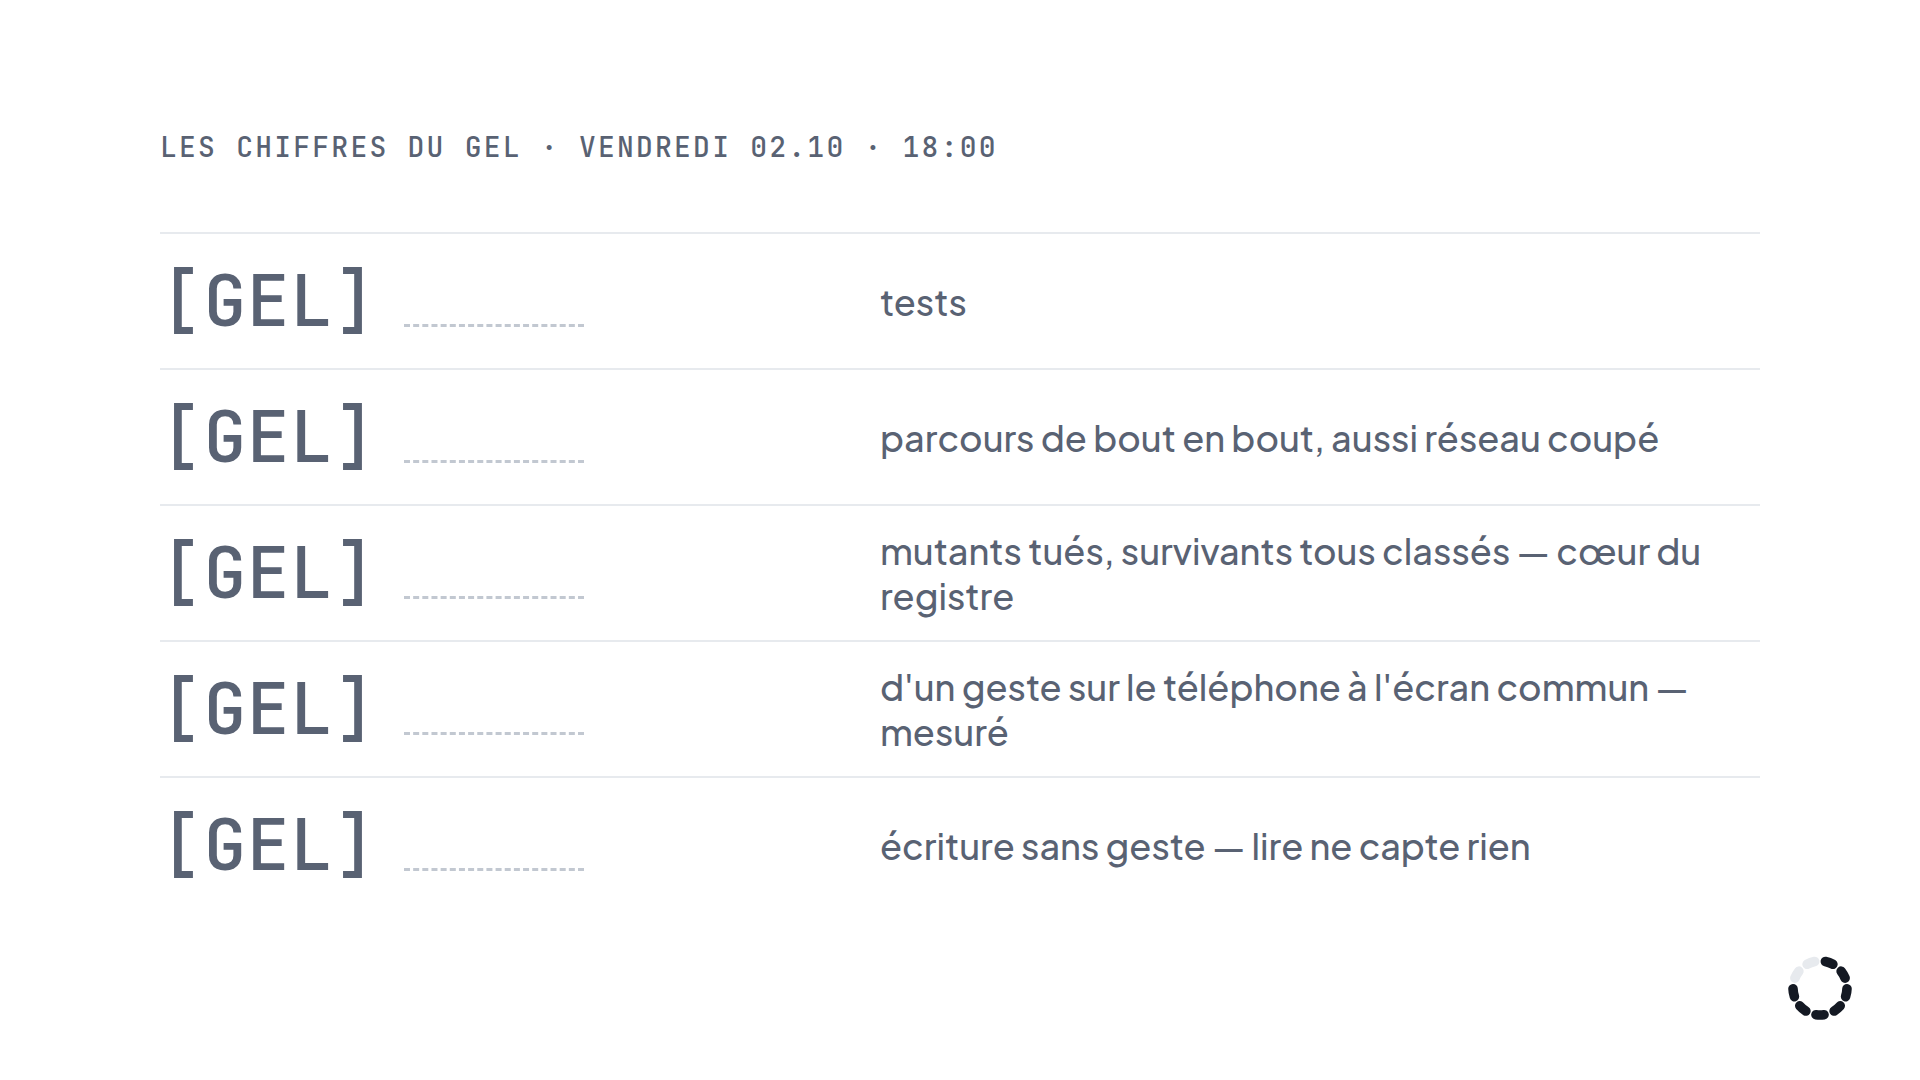
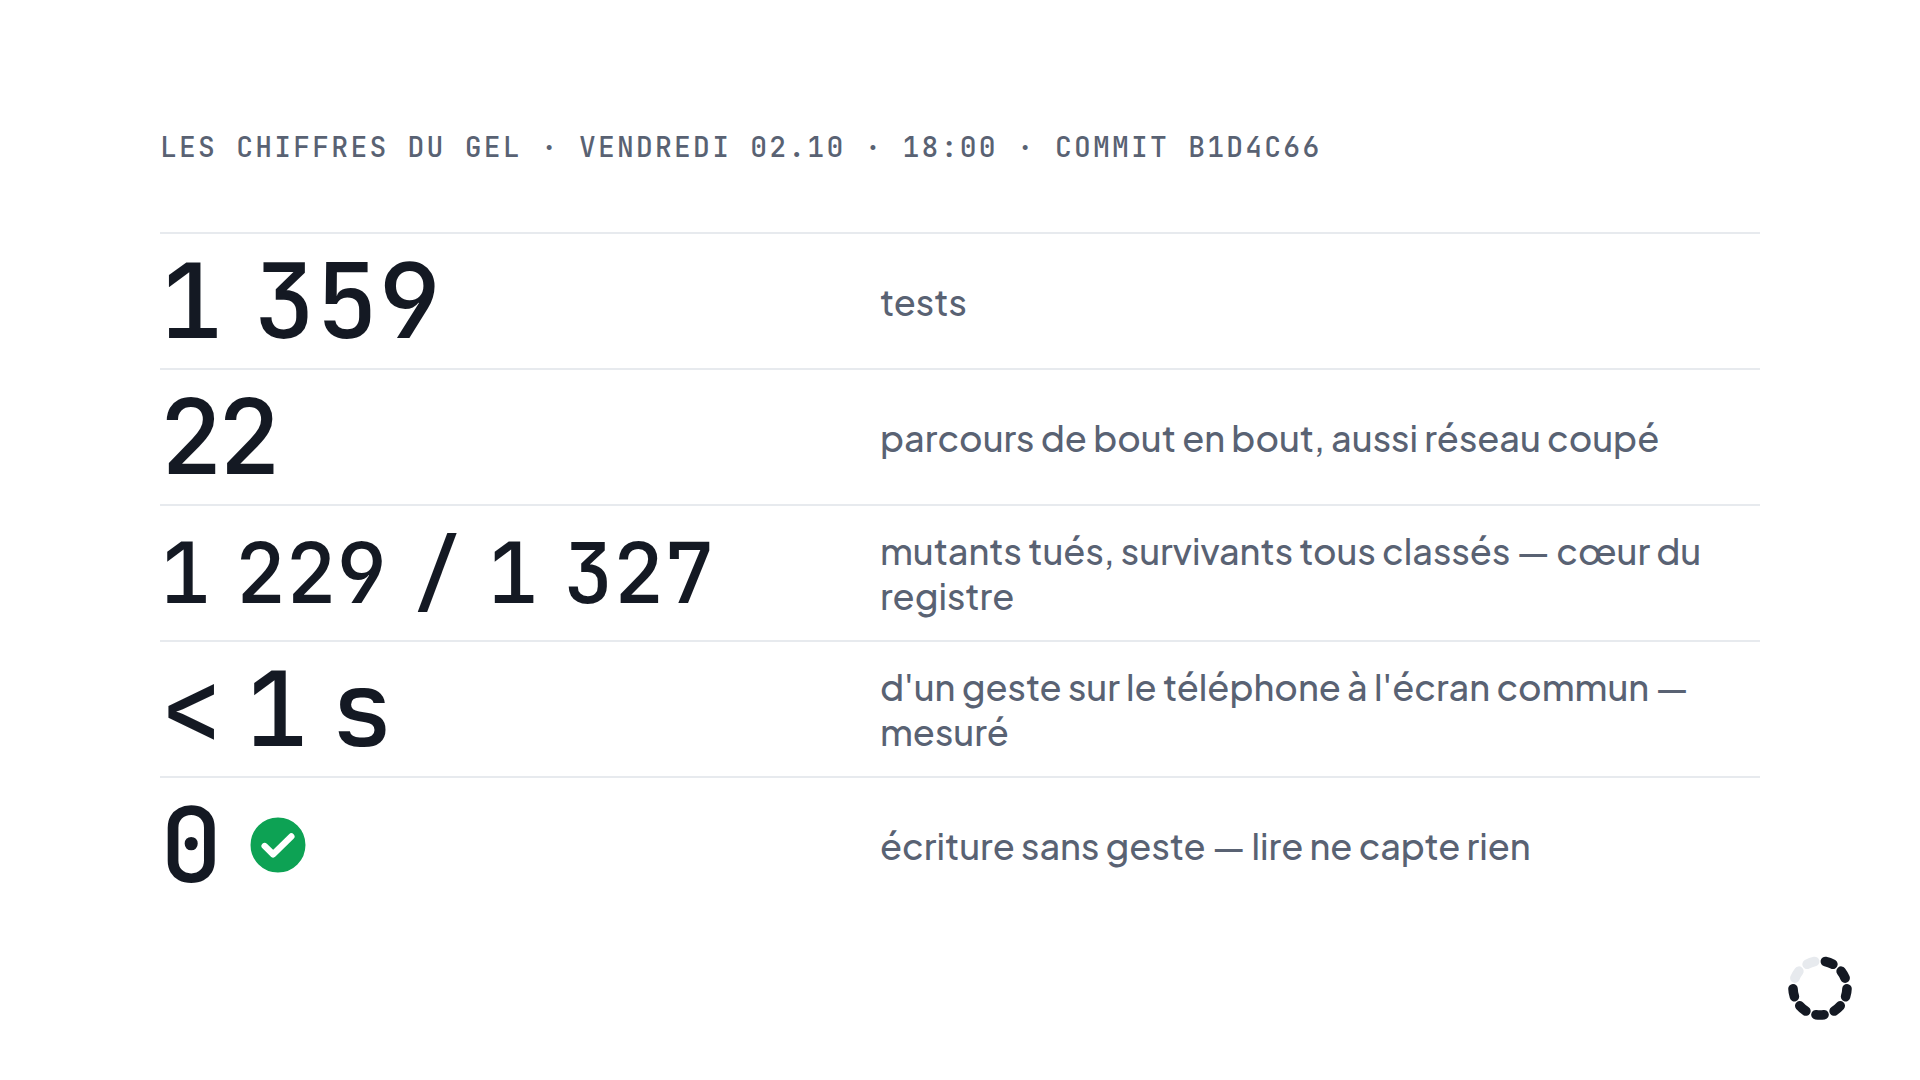
docs(deck): chiffres du gel dans gel.json (depuis PREUVES) ; valeurs longues sur une ligne
gel.json : 1 359 · 22 · 1 229 / 1 327 · < 1 s · 0, commit b1d4c66 — recopiés de
PREUVES, section « Gel du 02.10.2026, 18:00 ». La revue a montré « 1 229 / 1 327 »
coupé sur deux lignes et chevauchant la ligne suivante : espaces fines insécables,
pas de retour à la ligne, corps réduit au-delà de 7 caractères. Revue jour/nuit
refaite.

Claude-Session: https://claude.ai/code/session_01XCgNWgXX2UnAWHyYpxA41M

diff --git a/docs/presentation/deck/index.html b/docs/presentation/deck/index.html
@@ -127,7 +127,7 @@ body { font-family: "Plus Jakarta Sans", sans-serif; color: var(--ink); -webkit-
 .preuve p { font-size: 40px; font-weight: 500; color: var(--secondary); margin-top: 12px; }
 .chiffres { position: absolute; left: var(--marge); right: var(--marge); top: 232px; }
 .chiffre { display: grid; grid-template-columns: 720px 1fr; align-items: center; height: 136px; border-top: 2px solid var(--hairline-2); }
-.chiffre b { font-family: "JetBrains Mono", monospace; font-weight: 500; font-size: 104px; letter-spacing: -0.04em; line-height: 1; display: flex; align-items: center; gap: 28px; }
+.chiffre b { font-family: "JetBrains Mono", monospace; font-weight: 500; font-size: 104px; letter-spacing: -0.04em; line-height: 1; display: flex; align-items: center; gap: 28px; white-space: nowrap; }
 .chiffre b.gel { color: var(--secondary); font-size: 72px; letter-spacing: 0; }
 .chiffre b.gel::after { content: ""; display: block; width: 180px; border-bottom: 3px dashed var(--disabled); align-self: flex-end; margin-bottom: 10px; }
 .chiffre span { font-size: 36px; font-weight: 500; color: var(--secondary); line-height: 1.25; }
@@ -429,7 +429,9 @@ function remplir(g) {
   const ch = document.getElementById("chiffres");
   ch.innerHTML = (g ? g.chiffres : [{}, {}, {}, {}, {}]).map((c, k) => {
     const v = c.valeur;
-    const val = v === null || v === undefined ? `<b class="gel">[GEL]</b>` : `<b>${esc(v)}${c.zero_verifie ? medaillon : ""}</b>`;
+    const aff = v === null || v === undefined ? "" : String(v).replace(/ /g, "\u202f");   // espaces fines insécables : une ligne
+    const long = aff.length > 7 ? ' style="font-size:84px"' : "";
+    const val = v === null || v === undefined ? `<b class="gel">[GEL]</b>` : `<b${long}>${esc(aff)}${c.zero_verifie ? medaillon : ""}</b>`;
     return `<div class="chiffre fr" data-f="${k + 1}">${val}<span>${esc(c.etiquette || "")}</span></div>`;
   }).join("");
   const t = document.getElementById("gel-titre");

diff --git a/docs/presentation/ETAT_02_10_SOIR.md b/docs/presentation/ETAT_02_10_SOIR.md
@@ -22,9 +22,8 @@ Tout ce qui suit est dans le dépôt (branche `claude/modest-bohr-xvk53n`), sauf
    `docs/presentation/film/`, committer, pousser (après le gel, seul `docs/` change).
 3. **Film sur le MacBook** (AirDrop + clé USB), puis passage complet du deck Wi-Fi coupé : film du début à la fin,
    dernier plan figé, « Et après ? ».
-4. **Chiffres du deck** : recopier dans `docs/presentation/deck/data/gel.json` les valeurs de PREUVES (section du
-   gel) : `1 359` · `22` · `1 229 / 1 327` · `< 1 s` · `0` ; `gel.commit` = `b1d4c66`. Puis relancer la revue
-   (`deck/revue.py`).
+4. ~~Chiffres du deck~~ — **fait le 02.10 au soir** : `deck/data/gel.json` rempli depuis PREUVES (`1 359` · `22` ·
+   `1 229 / 1 327` · `< 1 s` · `0`, commit `b1d4c66`) ; revue refaite (`deck/review/final/`, slide 16-14).
 5. **Samedi matin** : rituel DEMO_SCRIPT § 9.5, test D-PRES-1 (IA 3/3 ou éteinte), captures reprises sur la machine de
    démo (mêmes noms, `deck/assets/captures/`), test de salle jour/nuit (`04_DEMO_RUNBOOK.md` § 8, point 6).
 
